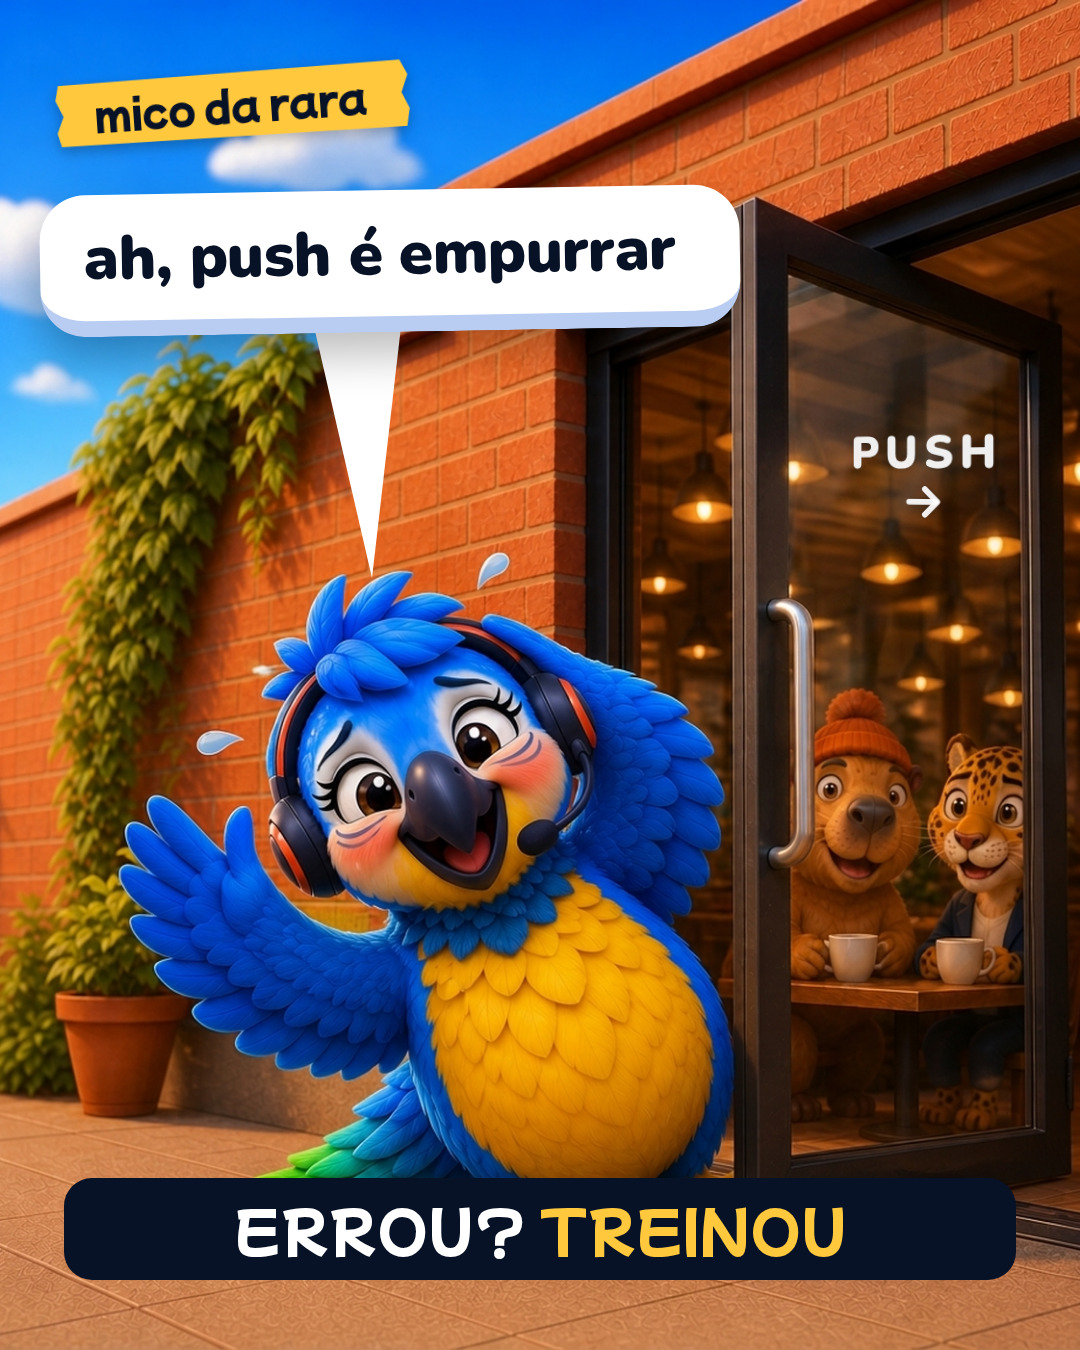
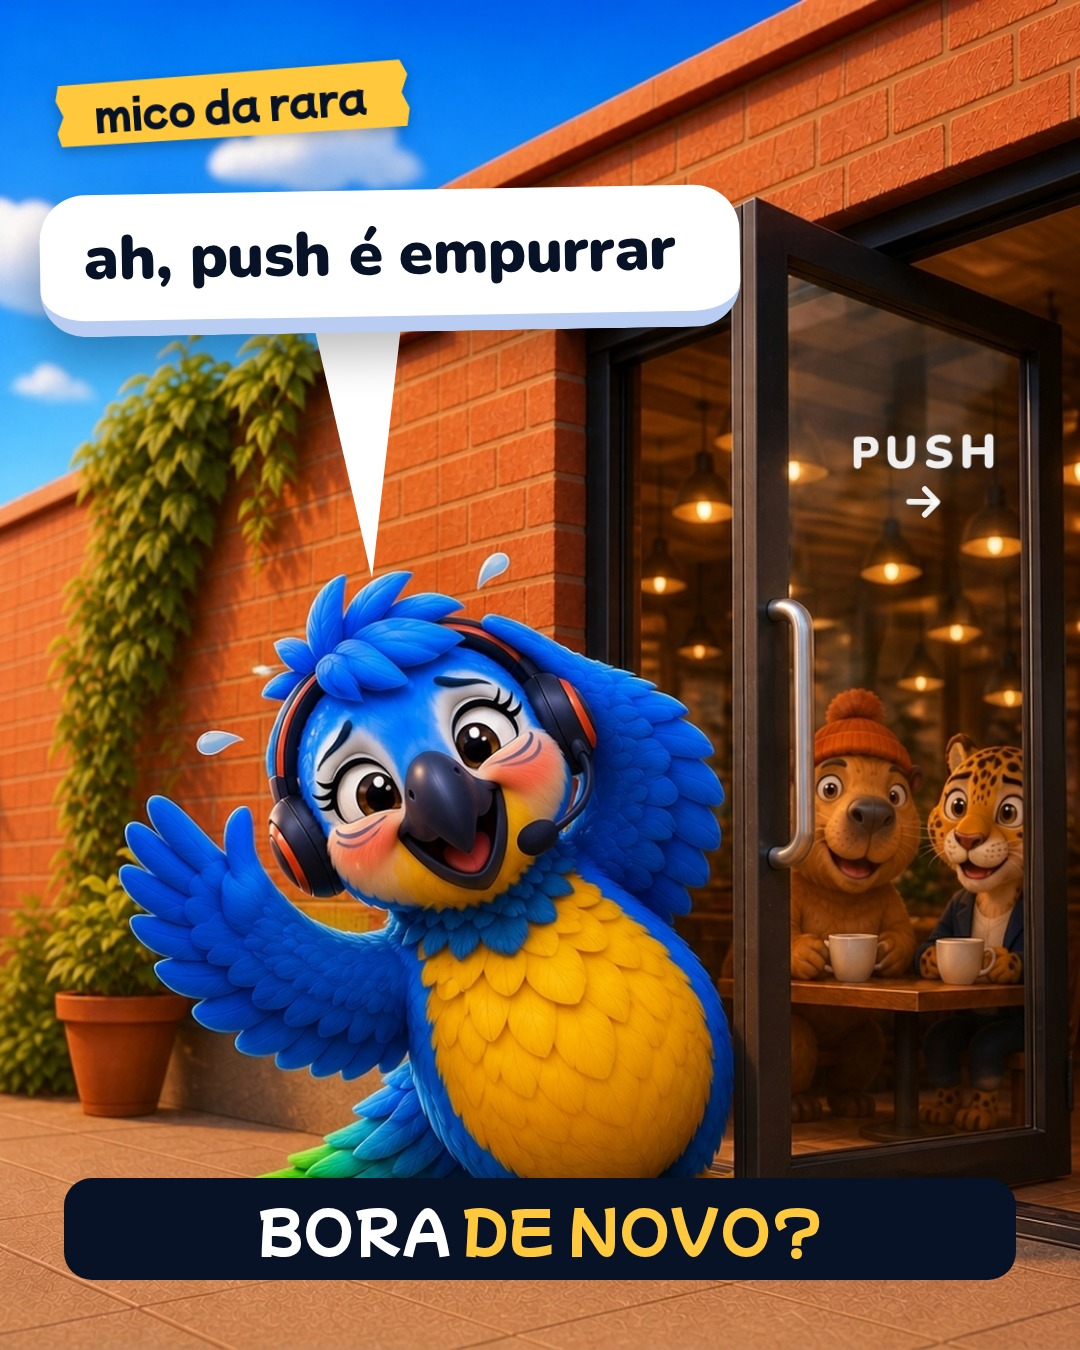
fix(arara): mico da porta slide 5 com o bordao Bora de novo

Changed region(s): [[0.2139, 0.8711, 0.7944, 0.9333], [0.0917, 0.0622, 0.3361, 0.1244]]

diff --git a/semana1/_scripts/t1v8_bora.html b/semana1/_scripts/t1v8_bora.html
@@ -1,0 +1,65 @@
+<!doctype html><html lang="pt-BR"><head><meta charset="utf-8"><style>
+@font-face{font-family:'Nunito';src:url('../_fontes/Nunito.ttf');font-weight:200 1000}
+@font-face{font-family:'Mochiy';src:url('../_fontes/MochiyPopOne-Regular.ttf')}
+*{box-sizing:border-box;margin:0;padding:0}
+body{background:#000;width:1080px}
+.s{position:relative;width:1080px;height:1350px;overflow:hidden;font-family:'Nunito';color:#081226}
+.s img.bg{position:absolute;left:0;width:1080px}
+.bal{position:absolute;z-index:6;background:#fff;border-radius:46px;border-bottom:16px solid #B9CCF2;padding:30px 44px 28px;box-shadow:0 22px 44px rgba(0,0,0,.26);font-weight:900;font-size:62px;line-height:1.1;letter-spacing:-.01em;transform:rotate(-1deg)}
+.decal{position:absolute;z-index:5;display:flex;flex-direction:column;align-items:center;gap:4px;font-family:'Nunito';font-weight:900;font-size:46px;line-height:1;letter-spacing:.14em;color:rgba(255,255,255,.93);text-shadow:0 0 1px rgba(0,0,0,.55),0 2px 3px rgba(0,0,0,.16);filter:blur(.22px);pointer-events:none}
+.decal svg{width:.95em;height:.95em;stroke:rgba(255,255,255,.93);fill:none;stroke-width:3.2;stroke-linecap:round;stroke-linejoin:round;filter:drop-shadow(0 0 1px rgba(0,0,0,.5))}
+.decal::after{content:"";position:absolute;inset:-34px -46px;background:linear-gradient(118deg,rgba(255,255,255,0) 30%,rgba(255,255,255,.16) 48%,rgba(255,255,255,0) 62%);-webkit-mask-image:radial-gradient(ellipse at center,#000 25%,transparent 68%);mask-image:radial-gradient(ellipse at center,#000 25%,transparent 68%);pointer-events:none}
+.cap{position:absolute;left:64px;right:64px;bottom:70px;z-index:7;background:#081226;border-radius:28px;padding:18px 26px;text-align:center;font-family:'Mochiy';text-transform:uppercase;font-size:56px;line-height:1.18;color:#fff}
+.cap .y{color:#FFC83D}
+.hl{background:linear-gradient(transparent 52%,#FFC83D 52%,#FFC83D 92%,transparent 92%);padding:0 6px}
+.btn{width:104px;height:104px;border-radius:50%;background:#FFC83D;display:flex;align-items:center;justify-content:center;box-shadow:0 10px 0 rgba(0,0,0,.22)}
+.btn svg{width:54px;height:54px;stroke:#081226}
+.tapepos{position:absolute;left:56px;top:70px;z-index:7}
+.tapew{filter:drop-shadow(0 5px 7px rgba(0,0,0,.28));display:inline-block;transform:rotate(-4deg)}
+.tape{display:inline-block;font-family:'Mochiy';text-transform:lowercase;font-size:40px;line-height:1;color:#081226;background:#FFC83D;padding:14px 42px 14px 38px;clip-path:polygon(1% 6%,0 28%,2% 52%,0 76%,1% 96%,99% 100%,100% 74%,98% 50%,100% 24%,98% 2%)}
+</style></head><body>
+<svg style="display:none"><symbol id="mic" viewBox="0 0 24 24" fill="none" stroke-width="2.2" stroke-linecap="round" stroke-linejoin="round"><path d="M12 2a3 3 0 0 0-3 3v7a3 3 0 0 0 6 0V5a3 3 0 0 0-3-3Z"/><path d="M19 10v2a7 7 0 0 1-14 0v-2"/><line x1="12" x2="12" y1="19" y2="22"/></symbol>
+<symbol id="arr" viewBox="0 0 24 24" fill="none" stroke-width="2.6" stroke-linecap="round" stroke-linejoin="round"><path d="M5 12h14"/><path d="m12 5 7 7-7 7"/></symbol></svg>
+
+<div class="s" id="t0" style="background:linear-gradient(165deg,#FF8A78 0%,#FF6B57 55%,#F25744 100%)">
+ <div style="position:absolute;width:760px;height:760px;border-radius:50%;right:-240px;top:-300px;background:radial-gradient(circle,rgba(255,255,255,.30),rgba(255,255,255,.10) 62%,rgba(255,255,255,0) 70%)"></div>
+ <div style="position:absolute;width:820px;height:820px;border-radius:50%;left:-300px;bottom:-330px;background:radial-gradient(circle,rgba(255,255,255,.26),rgba(255,255,255,.08) 62%,rgba(255,255,255,0) 70%)"></div>
+ <div class="tapepos"><div class="tapew"><span class="tape">mico da rara</span></div></div>
+ <div style="position:absolute;left:64px;top:190px;z-index:6;font-weight:900;font-size:116px;line-height:1.04;letter-spacing:-.01em;width:560px">O mico da <span class="hl">porta</span></div>
+ <div style="position:absolute;left:300px;top:395px;width:600px;height:750px;border-radius:40px;overflow:hidden;border-bottom:16px solid #B9CCF2;box-shadow:0 26px 48px rgba(0,0,0,.32);transform:rotate(2deg);z-index:3"><img src="../grupo3_feed/t1_v7/q1.png" style="width:600px;height:750px;object-fit:cover;display:block"><div class="decal" style="left:452px;top:204px;transform:scale(.55);transform-origin:0 0;"><span>PUSH</span><svg viewBox="0 0 24 24"><path d="M3 12h15"/><path d="m12 5 7 7-7 7"/></svg></div></div>
+ <div style="position:absolute;left:64px;bottom:70px;z-index:7;display:flex;gap:26px;align-items:center;font-weight:800;font-size:34px"><span>Arrasta para o lado</span><div class="btn"><svg><use href="#arr"/></svg></div></div>
+</div>
+
+<div class="s" id="t1"><img class="bg" src="../grupo3_feed/t1_v7/q1.png" style="top:0;height:1350px;object-fit:cover">
+ <div class="tapepos"><div class="tapew"><span class="tape">mico da rara</span></div></div>
+ <div class="decal" style="left:826px;top:376px;transform:rotate(-.4deg);"><span>PUSH</span><svg viewBox="0 0 24 24"><path d="M3 12h15"/><path d="m12 5 7 7-7 7"/></svg></div>
+ <div class="bal" data-tip="380,480" style="left:40px;top:190px;width:860px">hoje eu tô confiante, viu</div>
+</div>
+<div class="s" id="t2"><img class="bg" src="../grupo3_feed/t1_v7/q2.png" style="top:0;height:1350px;object-fit:cover">
+ <div class="tapepos"><div class="tapew"><span class="tape">mico da rara</span></div></div>
+ <div class="decal" style="left:832px;top:380px;transform:rotate(-.4deg);"><span>PUSH</span><svg viewBox="0 0 24 24"><path d="M3 12h15"/><path d="m12 5 7 7-7 7"/></svg></div>
+ <div class="bal" data-tip="372,478" style="left:40px;top:250px;width:760px">puxa, puxa... nada</div>
+</div>
+<div class="s" id="t3"><img class="bg" src="../grupo3_feed/t1_v7/q3.png" style="top:0;height:1350px;object-fit:cover"> 
+ <div class="tapepos"><div class="tapew"><span class="tape">mico da rara</span></div></div>
+ <div class="decal" style="left:830px;top:376px;transform:rotate(-.4deg);"><span>PUSH</span><svg viewBox="0 0 24 24"><path d="M3 12h15"/><path d="m12 5 7 7-7 7"/></svg></div>
+ <div class="bal" data-tip="400,636" style="left:40px;top:250px;width:575px">gente, essa porta tá com defeito</div>
+</div>
+<div class="s" id="t4"><img class="bg" src="../grupo3_feed/t1_v7/q4.png" style="top:0;height:1350px;object-fit:cover">
+ <div class="tapepos"><div class="tapew"><span class="tape">mico da rara</span></div></div>
+ <div class="decal" style="left:846px;top:430px;transform:perspective(520px) rotateY(-14deg);"><span>PUSH</span><svg viewBox="0 0 24 24"><path d="M3 12h15"/><path d="m12 5 7 7-7 7"/></svg></div>
+ <div class="bal" data-tip="372,578" style="left:40px;top:190px;width:700px">ah, push é empurrar</div>
+ <div class="cap">Bora <span class="y">de novo?</span></div>
+</div>
+<script>document.fonts.ready.then(()=>{
+ const ns='http://www.w3.org/2000/svg';
+ document.querySelectorAll('.s').forEach(st=>{
+  st.querySelectorAll('.bal').forEach(b=>{
+   const tip=b.dataset.tip.split(',').map(Number),x=b.offsetLeft,y=b.offsetTop,w=b.offsetWidth,h=b.offsetHeight;
+   const bx=Math.min(Math.max(tip[0]-60,x+40),x+w-160);
+   const pts=`${bx},${y+h-14} ${bx+90},${y+h-14} ${tip[0]},${tip[1]}`;
+   let sv=st.querySelector('svg.t'); if(!sv){sv=document.createElementNS(ns,'svg');sv.setAttribute('class','t');sv.setAttribute('width',1080);sv.setAttribute('height',1350);sv.style.cssText='position:absolute;left:0;top:0;z-index:5';st.appendChild(sv)}
+   const p=document.createElementNS(ns,'polygon');p.setAttribute('points',pts);p.setAttribute('fill','#fff');sv.appendChild(p);
+  });
+ }); window.__done=true;});</script>
+</body></html>
